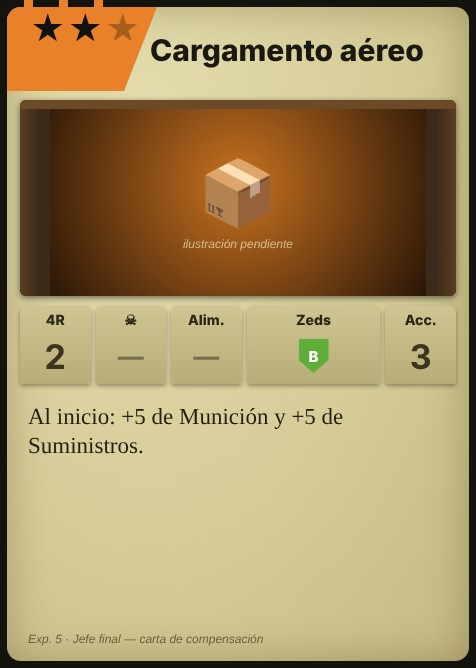
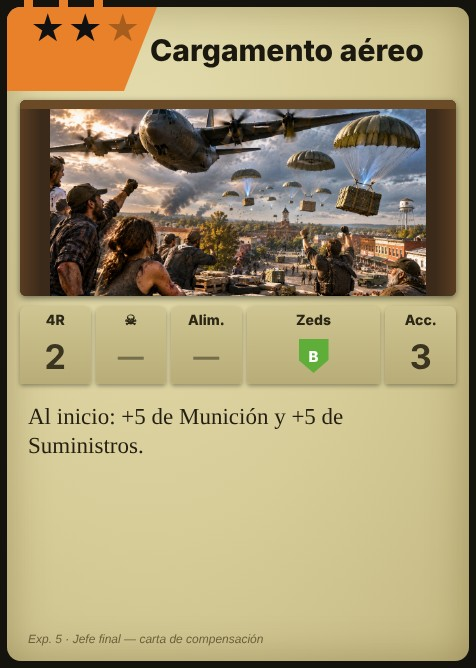
Exp. 5: ilustración de «Cargamento aéreo»; BUILD_TIME, CHANGELOG y caché v81
Claude-Session: https://claude.ai/code/session_01KmRiLbWWzhUthpc2eQKnLk

Changed region(s): [[0.0882, 0.1497, 0.9118, 0.4491]]

diff --git a/sw.js b/sw.js
@@ -1,7 +1,7 @@
 /* Service worker: permite instalar la web como app y jugar sin conexión.
    Código (html/js/css): red primero, con copia local de reserva. Imágenes y audio: caché primero. */
 'use strict';
-const CACHE = 'doz3-v80';
+const CACHE = 'doz3-v81';
 const SHELL = ['./', 'index.html', 'style.css', 'manifest.webmanifest', 'icons/icon-192.png', 'icons/icon-512.png', 'assets/portada.jpg', 'assets/fondo_nueva.webp', 'assets/fondo_ranking.webp',
   'js/version.js', 'js/data.js', 'js/events.js', 'js/dest.js', 'js/evlog.js', 'js/preview.js', 'js/obituario.js', 'js/engine.js', 'js/game.js', 'js/phases.js', 'js/actions.js', 'js/cardtext.js', 'js/ui.js', 'js/anim.js',
   'js/expansions.js', 'js/expansions2.js', 'js/jefe.js', 'js/sfx.js', 'js/sound.js', 'js/opciones.js', 'js/voz.js', 'js/ost.js', 'assets/sonidos/letras/letras.js', 'assets/sonidos/efectos/sfx_disparo.mp3', 'assets/sonidos/efectos/sfx_disparo_largo.mp3', 'js/mapzoom.js', 'js/movil.js', 'js/seedcode.js', 'js/save.js', 'js/main.js', 'js/bot.js'];

diff --git a/js/version.js b/js/version.js
@@ -1,2 +1,2 @@
 /* Fecha y hora de la última build (hora de Madrid). Se actualiza con cada cambio publicado. */
-const BUILD_TIME = '2026-11-10 14:20';
+const BUILD_TIME = '2026-11-10 14:21';

diff --git a/CHANGELOG.md b/CHANGELOG.md
@@ -2,6 +2,11 @@
 
 Registro de cambios por publicación (push a `main`). Lo más reciente, arriba. Cada entrada lleva la misma fecha y hora que `BUILD_TIME` de `js/version.js`.
 
+## 2026-11-10 14:21
+
+### Cambios
+- **Exp. 5, «Cargamento aéreo»:** ya lleva su ilustración definitiva (avión de carga lanzando cajas con paracaídas). Con esto, las 5 cartas de compensación tienen ilustración. Caché v81.
+
 ## 2026-11-10 14:20
 
 ### Cambios
